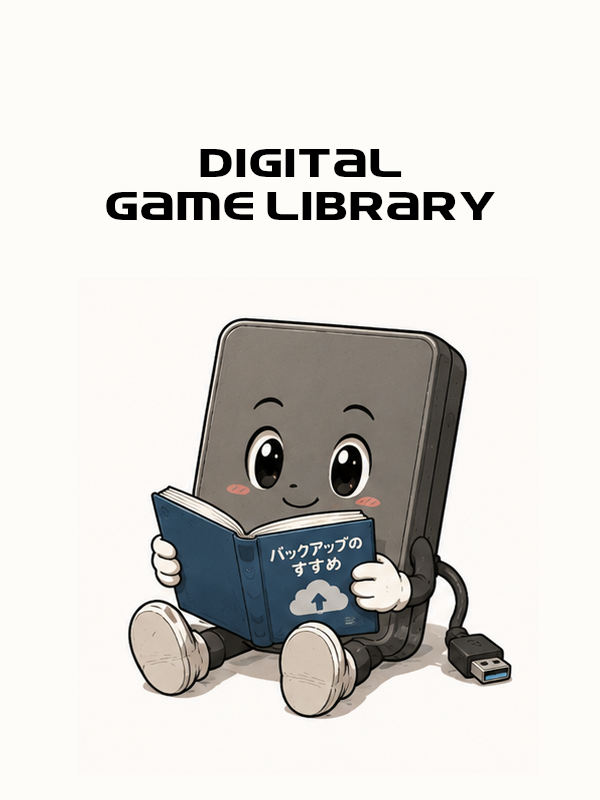
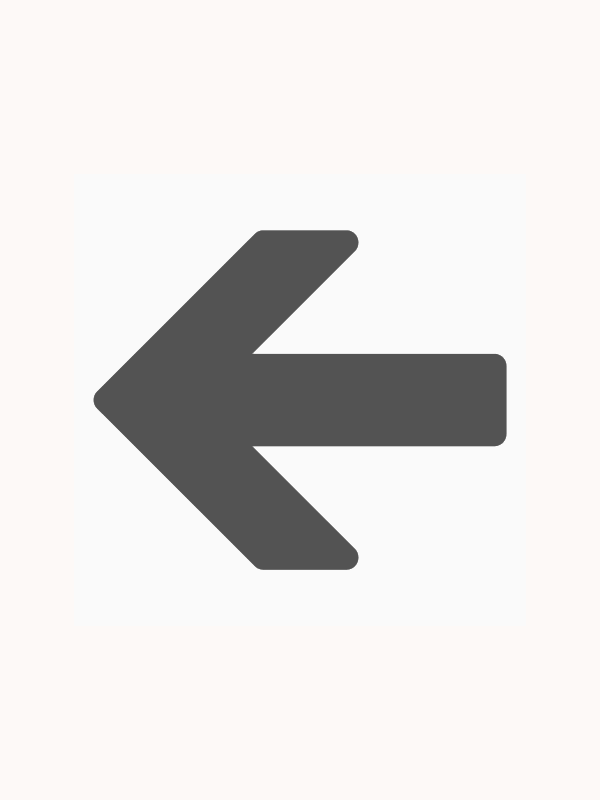
Rend le configurateur atteignable depuis la tuile
Une cartouche ou un disque sans entrée UserLibrary n'avait aucune action de
lancement, donc IsInstalled valait false : le thème proposait « Installer », et
Playnite réclamait alors un InstallController au plugin propriétaire. Un
GenericPlugin ne peut pas en fournir -- seul un plugin de bibliothèque le peut
-- d'où « Fonction d'installation introuvable », sans recours depuis
l'interface.

Trois situations y menaient : cartouche déjà présente au démarrage de Playnite,
où le prompt d'insertion est délibérément muet ; configuration annulée une fois
dans la session ; chemin d'émulateur devenu invalide.

Le jeu porte désormais toujours une action de lancement -- soit l'émulateur,
soit une URI playnite://<plugin>/configure/<id> qui ouvre le configurateur --
et IsInstalled reste vrai. Playnite ne cherche donc plus jamais
d'InstallController. Une annulation précédente ne bloque plus une demande
explicite de l'utilisateur.

Changed region(s): [[0.15, 0.1875, 0.87, 0.9062]]

diff --git a/DiscShelf/DiscShelfPlugin.cs b/DiscShelf/DiscShelfPlugin.cs
@@ -72,6 +72,7 @@ namespace DiscShelf
                 InitializeDetectors();
                 InitializeDatabases();
                 InitializeSlotManager();
+                InitializeUriHandler();
                 InitializeWatcher();
             }
             catch (Exception ex)
@@ -212,6 +213,81 @@ namespace DiscShelf
             // Affiche tout de suite un état par défaut ; sera corrigé dès
             // que le watcher aura évalué l'état réel du lecteur.
             slotManager.ShowNoDisc();
+        }
+
+
+        /// <summary>
+        /// Rend le configurateur atteignable depuis la tuile elle-même, via
+        /// l'action de lancement posée par GameSlotManager sur un disque non
+        /// configuré. Sans cela, le seul moyen de configurer un jeu est de
+        /// retirer puis réinsérer le disque pendant la session : un disque
+        /// déjà présent au démarrage de Playnite, ou dont la configuration a
+        /// été annulée une fois, restait inatteignable.
+        /// </summary>
+        private void InitializeUriHandler()
+        {
+            PlayniteApi.UriHandler.RegisterSource("discshelf", args =>
+            {
+                try
+                {
+                    // playnite://discshelf/configure/<serial>
+                    if (args.Arguments == null ||
+                        args.Arguments.Length < 2 ||
+                        !string.Equals(args.Arguments[0], "configure", StringComparison.OrdinalIgnoreCase))
+                    {
+                        return;
+                    }
+
+                    ConfigureFromUri(args.Arguments[1]);
+                }
+                catch (Exception ex)
+                {
+                    logger.Error(ex, "DiscShelf : erreur pendant le traitement de l'URI.");
+                }
+            });
+        }
+
+
+        /// <summary>
+        /// Configure le disque désigné par son serial, puis rafraîchit la
+        /// tuile pour qu'elle devienne immédiatement jouable.
+        /// </summary>
+        private void ConfigureFromUri(string serial)
+        {
+            DiscEntry entry = discDatabase.Find(serial);
+
+            if (entry == null)
+            {
+                logger.Info($"DiscShelf : URI de configuration pour un serial inconnu ({serial}).");
+
+                return;
+            }
+
+            GameIdentity identity = new GameIdentity
+            {
+                Serial = serial,
+                Platform = string.Equals(serial, DiscState.CurrentSerial, StringComparison.OrdinalIgnoreCase)
+                    ? DiscState.CurrentPlatform
+                    : PlatformId.Unknown
+            };
+
+            // Une annulation precedente ne doit pas bloquer une demande
+            // explicite de l'utilisateur.
+            declinedEmulatorSetup.Remove(serial);
+
+            // Meme precaution que pour le prompt d'insertion : les dialogues
+            // exigent le thread UI.
+            RunOnUiThread(() =>
+            {
+                UserLibraryEntry result = PromptForEmulatorSetup(identity, entry.Title);
+
+                if (result == null)
+                {
+                    declinedEmulatorSetup.Add(serial);
+                }
+
+                slotManager.ShowGame(identity, entry, result);
+            });
         }
 
 

diff --git a/CartridgeShelf/CartridgeShelfPlugin.cs b/CartridgeShelf/CartridgeShelfPlugin.cs
@@ -76,6 +76,7 @@ namespace CartridgeShelf
                 InitializeDetectors();
                 InitializeDatabases();
                 InitializeSlotManager();
+                InitializeUriHandler();
                 InitializeWatcher();
             }
             catch (Exception ex)
@@ -181,6 +182,81 @@ namespace CartridgeShelf
             );
 
             slotManager.ShowNoCartridge();
+        }
+
+
+        /// <summary>
+        /// Rend le configurateur atteignable depuis la tuile elle-même, via
+        /// l'action de lancement posée par GameSlotManager sur une cartouche
+        /// non configurée. Sans cela, le seul moyen de configurer un jeu est
+        /// de retirer puis réinsérer la cartouche pendant la session : une
+        /// cartouche déjà présente au démarrage de Playnite, ou dont la
+        /// configuration a été annulée une fois, restait inatteignable.
+        /// </summary>
+        private void InitializeUriHandler()
+        {
+            PlayniteApi.UriHandler.RegisterSource("cartridgeshelf", args =>
+            {
+                try
+                {
+                    // playnite://cartridgeshelf/configure/<checksum>
+                    if (args.Arguments == null ||
+                        args.Arguments.Length < 2 ||
+                        !string.Equals(args.Arguments[0], "configure", StringComparison.OrdinalIgnoreCase))
+                    {
+                        return;
+                    }
+
+                    ConfigureFromUri(args.Arguments[1]);
+                }
+                catch (Exception ex)
+                {
+                    logger.Error(ex, "CartridgeShelf : erreur pendant le traitement de l'URI.");
+                }
+            });
+        }
+
+
+        /// <summary>
+        /// Configure la cartouche désignée par son checksum, puis rafraîchit
+        /// la tuile pour qu'elle devienne immédiatement jouable.
+        /// </summary>
+        private void ConfigureFromUri(string checksum)
+        {
+            CartridgeEntry entry = cartridgeDatabase.Find(checksum);
+
+            if (entry == null)
+            {
+                logger.Info($"CartridgeShelf : URI de configuration pour un checksum inconnu ({checksum}).");
+
+                return;
+            }
+
+            GameIdentity identity = new GameIdentity
+            {
+                Checksum = checksum,
+                Platform = string.Equals(checksum, CartridgeState.CurrentChecksum, StringComparison.OrdinalIgnoreCase)
+                    ? CartridgeState.CurrentPlatform
+                    : PlatformId.SuperNintendo
+            };
+
+            // Une annulation precedente ne doit pas bloquer une demande
+            // explicite de l'utilisateur.
+            declinedEmulatorSetup.Remove(checksum);
+
+            // Meme precaution que pour le prompt d'insertion : les dialogues
+            // exigent le thread UI.
+            RunOnUiThread(() =>
+            {
+                UserLibraryEntry result = PromptForEmulatorSetup(identity, entry.Title);
+
+                if (result == null)
+                {
+                    declinedEmulatorSetup.Add(checksum);
+                }
+
+                slotManager.ShowGame(identity, entry, result);
+            });
         }
 
 

diff --git a/CartridgeShelf/Services/GameSlotManager.cs b/CartridgeShelf/Services/GameSlotManager.cs
@@ -22,6 +22,19 @@ namespace CartridgeShelf.Services
     {
         private const string SlotGameId = "CARTRIDGESHELF_SLOT";
 
+        /// <summary>
+        /// URI ouvrant le configurateur pour un checksum donné. Sert d'action
+        /// de lancement quand la cartouche n'est pas encore configurée.
+        ///
+        /// Pourquoi passer par une URI : sans action de lancement, le jeu est
+        /// "non installé", le thème propose donc "Installer", et Playnite
+        /// reclame alors un InstallController au plugin proprietaire. Or un
+        /// GenericPlugin ne peut pas en fournir -- seul un plugin de
+        /// bibliotheque le peut -- d'ou "Fonction d'installation introuvable".
+        /// On ne laisse donc jamais le jeu dans cet etat.
+        /// </summary>
+        public const string ConfigureUriFormat = "playnite://cartridgeshelf/configure/{0}";
+
         // "!1" : place la jaquette cartouche en dernier des trois, derrière
         // la tuile DigitalShelf ("!!") et la jaquette CD ("!0"). Ordre voulu
         // dans le thème Fullscreen : bibliothèque numérique, CD, cartouche.
@@ -125,12 +138,24 @@ namespace CartridgeShelf.Services
             else
             {
                 logger.Info(
-                    $"GameSlotManager : pas d'entrée UserLibrary (ou émulateur introuvable) pour {identity.Checksum}, jeu affiché sans action de lancement."
+                    $"GameSlotManager : pas d'entrée UserLibrary (ou émulateur introuvable) pour {identity.Checksum}, action de configuration proposée."
                 );
+
+                actions.Add(new GameAction
+                {
+                    Name = "Configurer l'émulateur",
+                    Type = GameActionType.URL,
+                    Path = string.Format(ConfigureUriFormat, identity.Checksum),
+                    IsPlayAction = true
+                });
             }
 
             game.GameActions = actions;
-            game.IsInstalled = actions.Count > 0;
+
+            // Toujours "installé" : le jeu porte soit son action de lancement,
+            // soit celle de configuration. Le voir passer a false rendrait la
+            // main a Playnite, qui chercherait un InstallController inexistant.
+            game.IsInstalled = true;
 
             api.Database.Games.Update(game);
 

diff --git a/DiscShelf/Services/GameSlotManager.cs b/DiscShelf/Services/GameSlotManager.cs
@@ -25,6 +25,19 @@ namespace DiscShelf.Services
     {
         private const string SlotGameId = "DISCSHELF_SLOT";
 
+        /// <summary>
+        /// URI ouvrant le configurateur pour un serial donné. Sert d'action
+        /// de lancement quand le disque n'est pas encore configuré.
+        ///
+        /// Pourquoi passer par une URI : sans action de lancement, le jeu est
+        /// "non installé", le thème propose donc "Installer", et Playnite
+        /// reclame alors un InstallController au plugin proprietaire. Or un
+        /// GenericPlugin ne peut pas en fournir -- seul un plugin de
+        /// bibliotheque le peut -- d'ou "Fonction d'installation introuvable".
+        /// On ne laisse donc jamais le jeu dans cet etat.
+        /// </summary>
+        public const string ConfigureUriFormat = "playnite://discshelf/configure/{0}";
+
         // Force le slot en tête de liste quel que soit le tri alphabétique
         // (le "!" trie avant les lettres et les chiffres dans la plupart
         // des cultures ; à ajuster si ce n'est pas le cas chez toi).
@@ -130,12 +143,24 @@ namespace DiscShelf.Services
             else
             {
                 logger.Info(
-                    $"GameSlotManager : pas d'entrée UserLibrary (ou émulateur introuvable) pour {identity.Serial}, jeu affiché sans action de lancement."
+                    $"GameSlotManager : pas d'entrée UserLibrary (ou émulateur introuvable) pour {identity.Serial}, action de configuration proposée."
                 );
+
+                actions.Add(new GameAction
+                {
+                    Name = "Configurer l'émulateur",
+                    Type = GameActionType.URL,
+                    Path = string.Format(ConfigureUriFormat, identity.Serial),
+                    IsPlayAction = true
+                });
             }
 
             game.GameActions = actions;
-            game.IsInstalled = actions.Count > 0;
+
+            // Toujours "installé" : le jeu porte soit son action de lancement,
+            // soit celle de configuration. Le voir passer a false rendrait la
+            // main a Playnite, qui chercherait un InstallController inexistant.
+            game.IsInstalled = true;
 
             api.Database.Games.Update(game);
 
